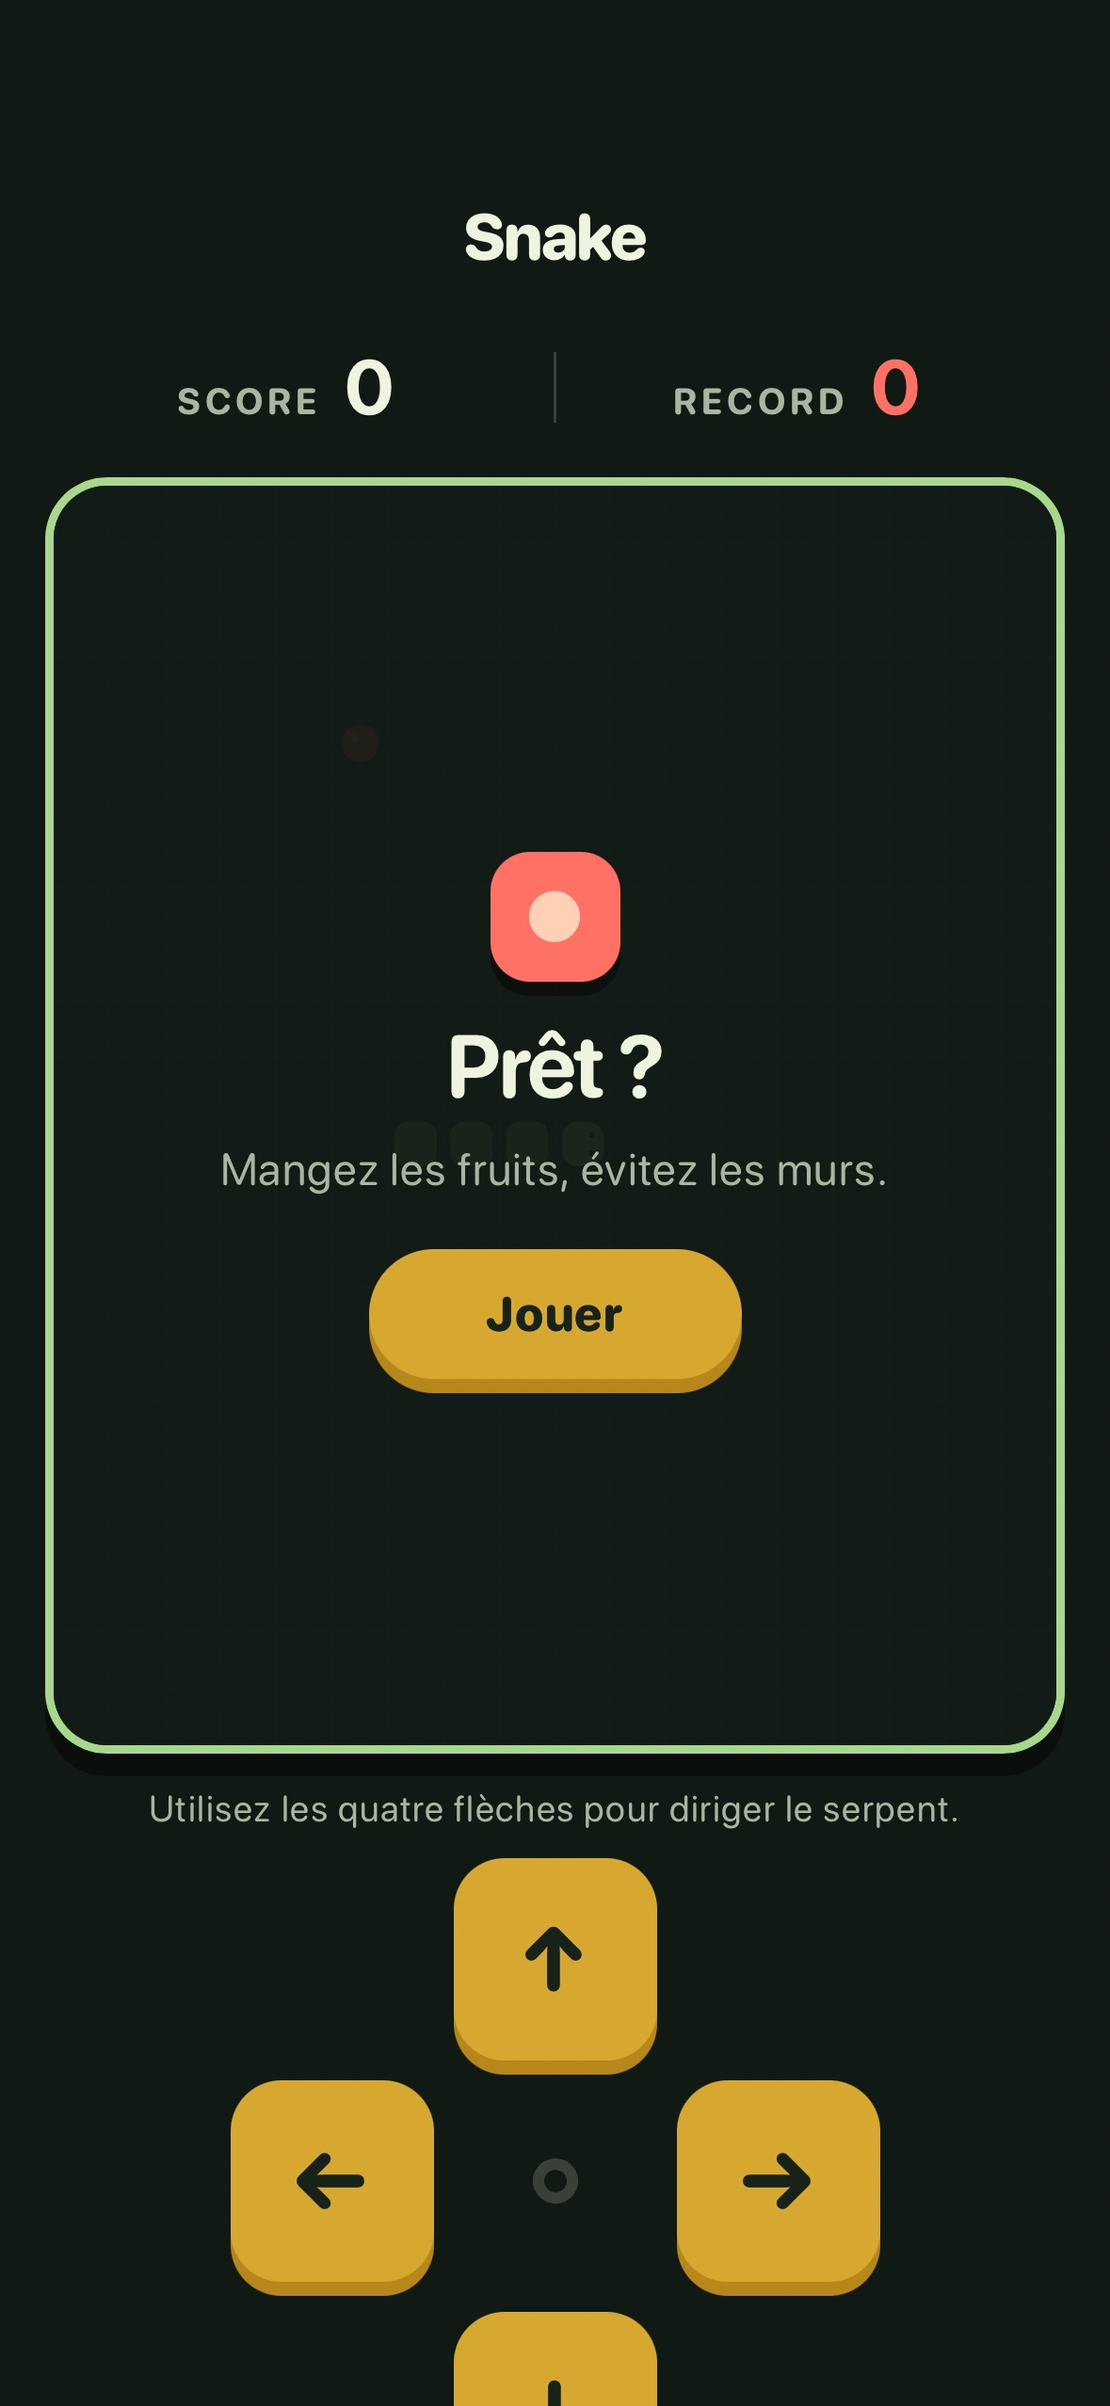
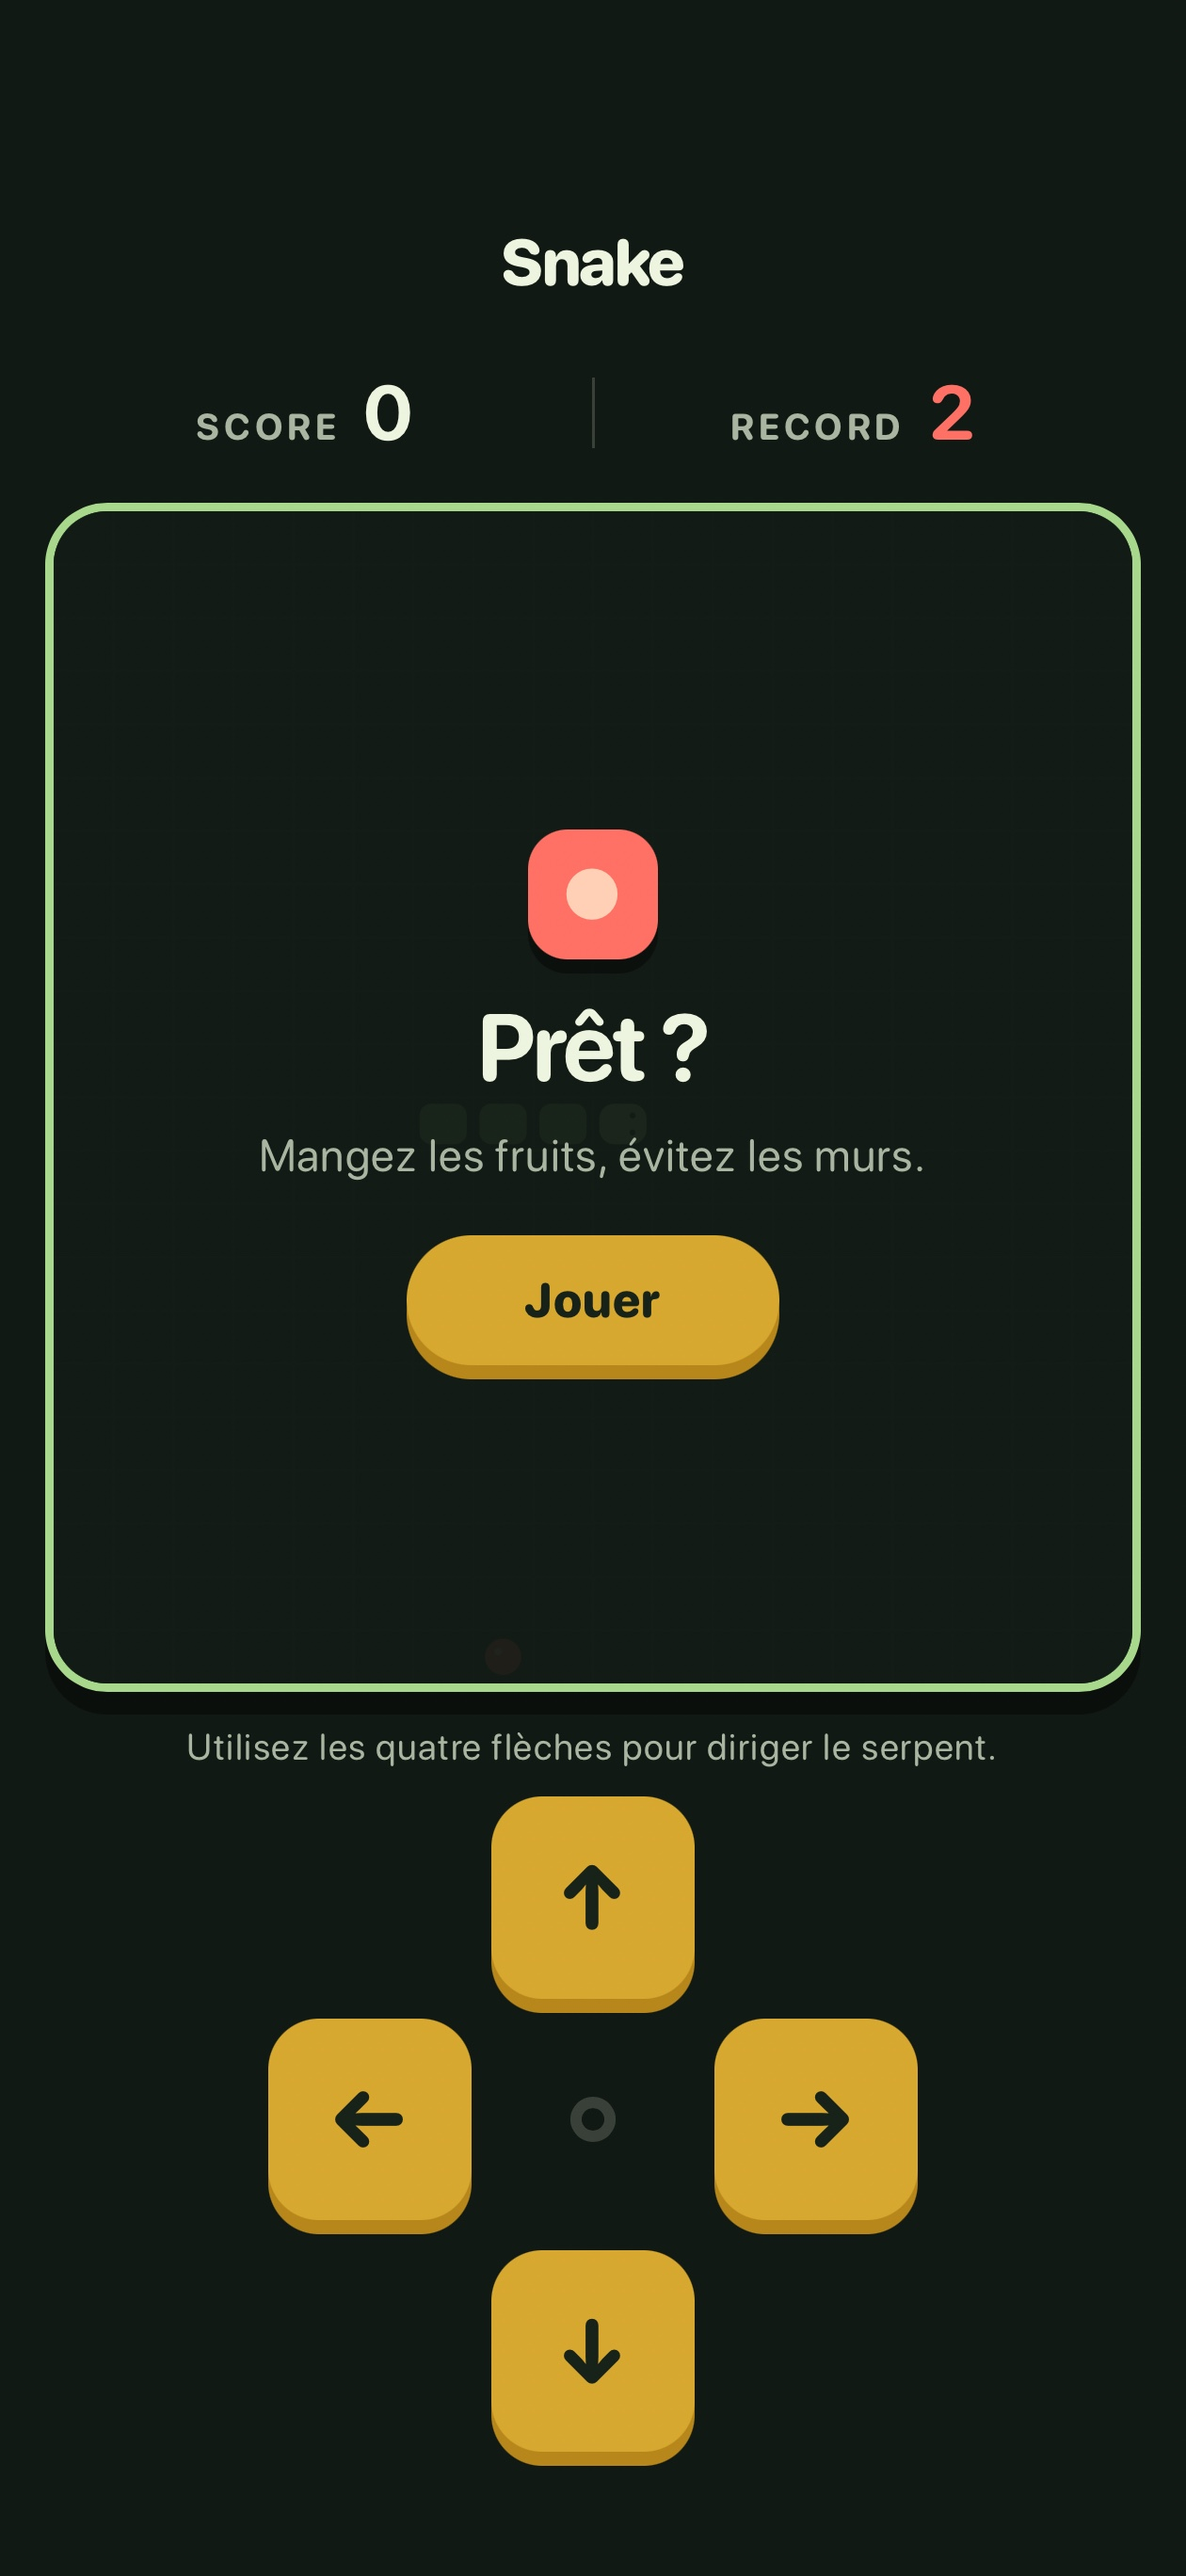
Publie Snake

Changed region(s): [[0.0305, 0.1545, 0.9771, 1.0], [0.2137, 0.3091, 0.7939, 0.5872], [0.4275, 0.0927, 0.5802, 0.1236]]

diff --git a/snake/app.js b/snake/app.js
@@ -257,8 +257,10 @@ function updateCanvasLabel() {
 startButton.addEventListener("click", startGame);
 
 directionButtons.forEach(button => {
-  button.addEventListener("click", () => setDirection(button.dataset.direction));
-  button.addEventListener("pointerdown", () => button.classList.add("active"));
+  button.addEventListener("pointerdown", () => {
+    button.classList.add("active");
+    setDirection(button.dataset.direction);
+  });
   const release = () => button.classList.remove("active");
   button.addEventListener("pointerup", release);
   button.addEventListener("pointercancel", release);

diff --git a/README.md b/README.md
@@ -10,7 +10,7 @@ Sous licence MIT.
 <!-- liste des apps : cette partie est réécrite à chaque publication -->
 - **[Parle & Traduis](parle-traduis/)** — L’application permet d’écouter une phrase en français, d’afficher sa transcription puis de la traduire dans l’une des cinq langues disponibles(dont le Wolof). Elle permet de répéter l’expérience facilement.
 - **[Ballons Confettis](ballons-confettis/)** — Cette application permet de jouer à un jeu d’arcade hors ligne où l’on éclate des ballons dessinés pour atteindre un score. Elle affiche un écran d’accueil avec le meilleur score et un bouton pour commencer.
-- **[Snake](snake/)** — Un jeu Snake simple sur iPhone, piloté avec quatre boutons à l’écran.
+- **[Snake](snake/)** — Un jeu Snake simple, piloté avec quatre boutons à l’écran.
 - **[Orange Marketplace](orange-marketplace/)** — Une app pour rechercher, comparer et découvrir les promotions des produits vendus sur la Marketplace Orange, avec des images nettes et bien visibles.
 - **[Estimation immobilière](estimation-immobiliere/)** — Évaluer indicativement le prix d’un bien situé en France à partir de son adresse, de ses caractéristiques et des ventes récentes de sa commune, puis retrouver localement les résultats complets enregistrés.
 - **[Tetris Sonique](tetris-sonique/)** — Un Tetris classique jouable sur iPhone avec des contrôles tactiles réactifs, du son, une musique désactivable séparément, un arrière-plan animé léger et la sauvegarde automatique de la partie en cours.

diff --git a/snake/README.md b/snake/README.md
@@ -1,10 +1,12 @@
 # Snake
 
-Un jeu Snake simple sur iPhone, piloté avec quatre boutons à l’écran.
+Un jeu Snake simple, piloté avec quatre boutons à l’écran.
 
 ![Capture](shots/1.jpg)
 
 ![Capture](shots/2.jpg)
+
+![Capture](shots/3.jpg)
 
 ## Ce que cette app demande
 
